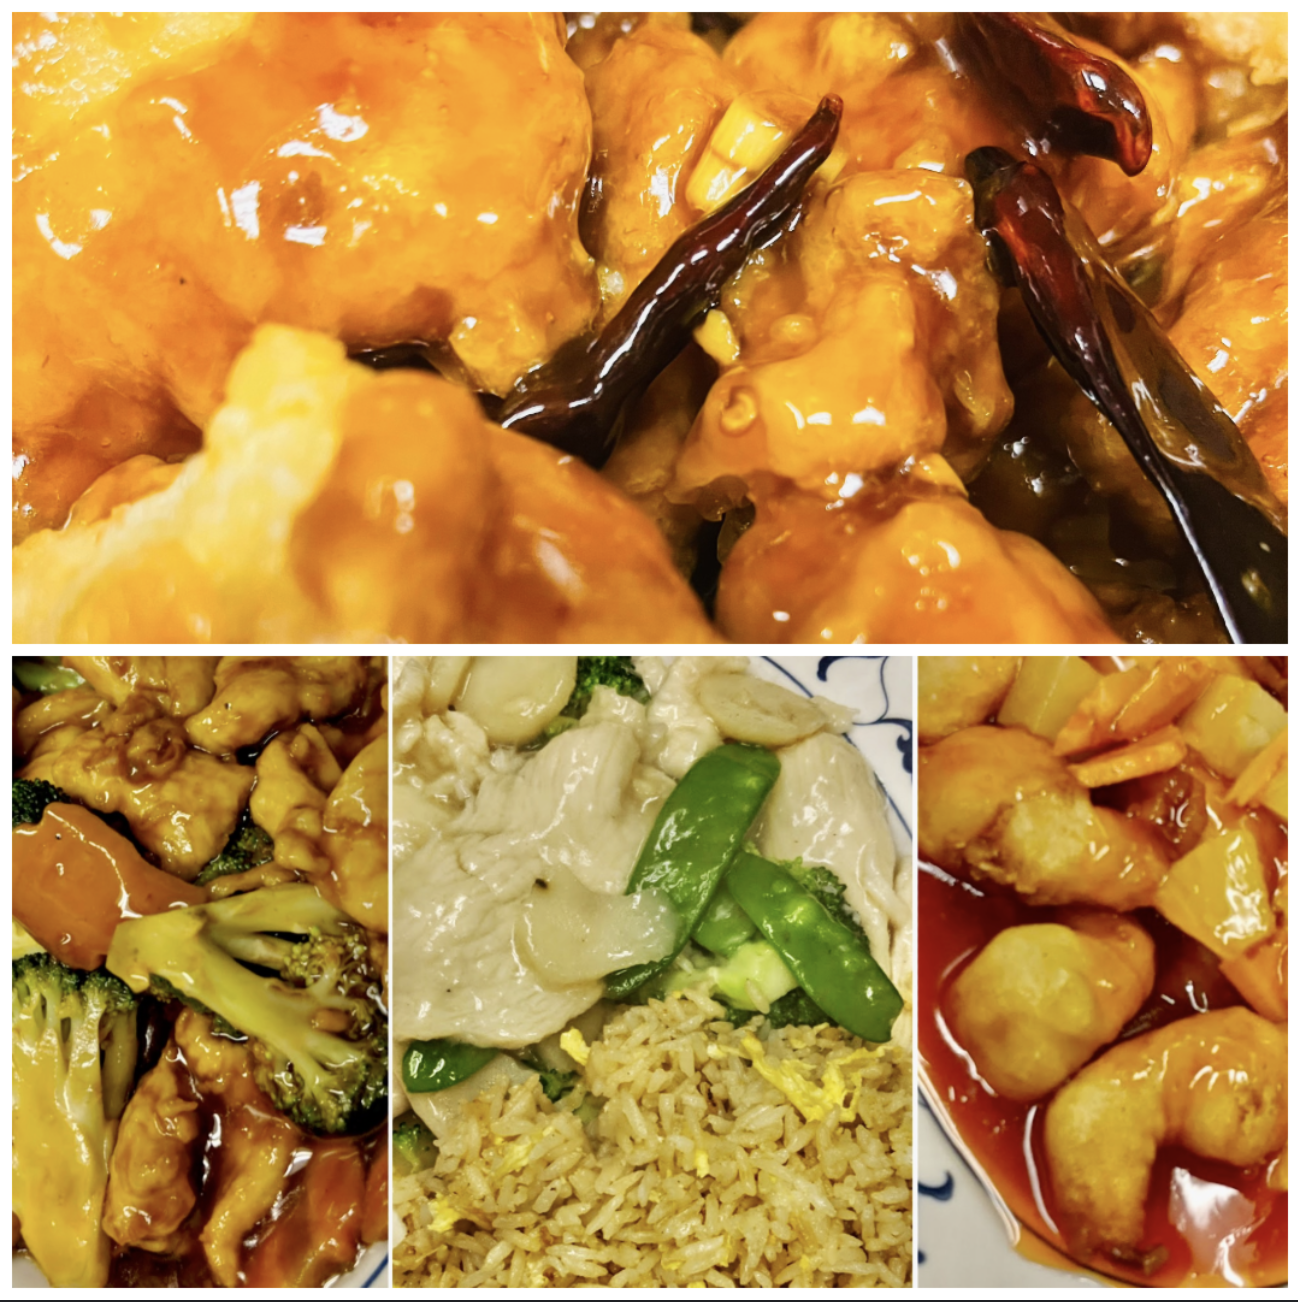
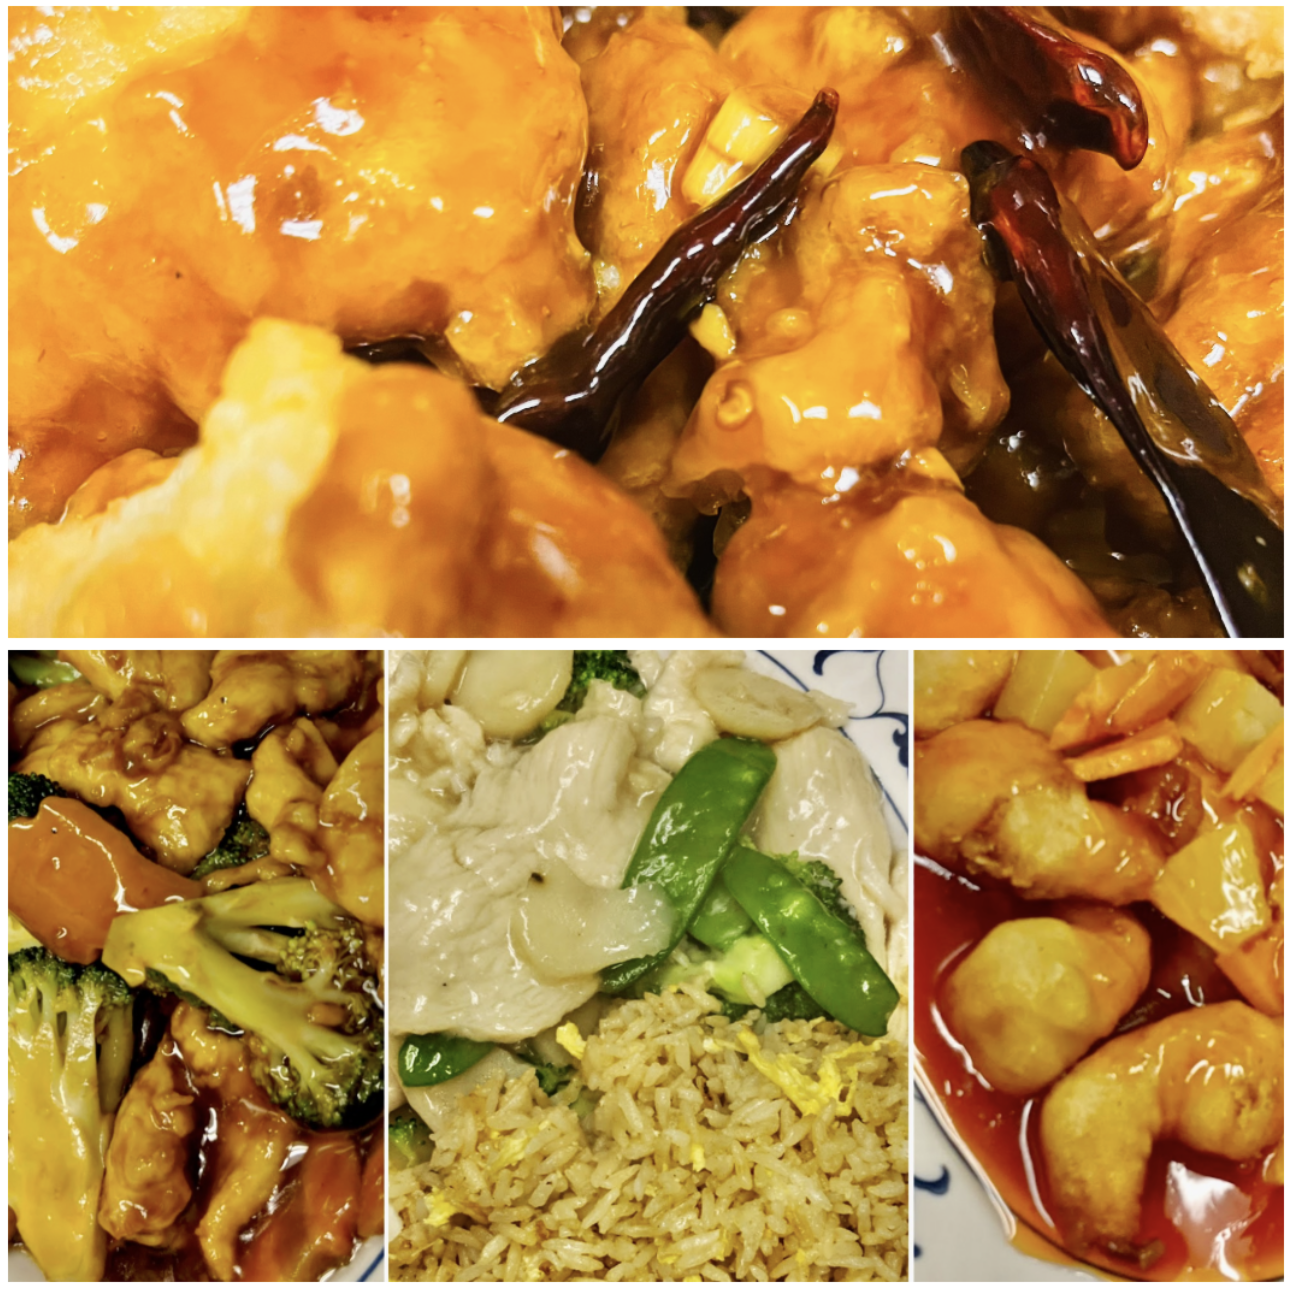
Fix image sizing

diff --git a/index.html b/index.html
@@ -136,10 +136,10 @@
 
         <div id="info_box" class="row">
             <!-- <img src="fortune_cookies.jpg" style="max-width: 40vw; right: 0vw; position: absolute"></img> -->
-            <div class="col col-lg">
-                <img class="col" src="photos/photo_collage_3.png">
+            <div class="col col-lg p-2">
+                <img src="photos/photo_collage_3.png" style="max-width: 100%">
             </div>
-            <div id="info" class="col col-md text-left">
+            <div id="info" class="col-md-auto text-left">
                 <span>Please note: </span>
                 <br><br>
                 <ul>

diff --git a/index.css b/index.css
@@ -1,3 +1,9 @@
+body {
+    padding: 0;
+    margin: 0;
+    overflow: hidden
+}
+
 #bottom-div {
 
 }
